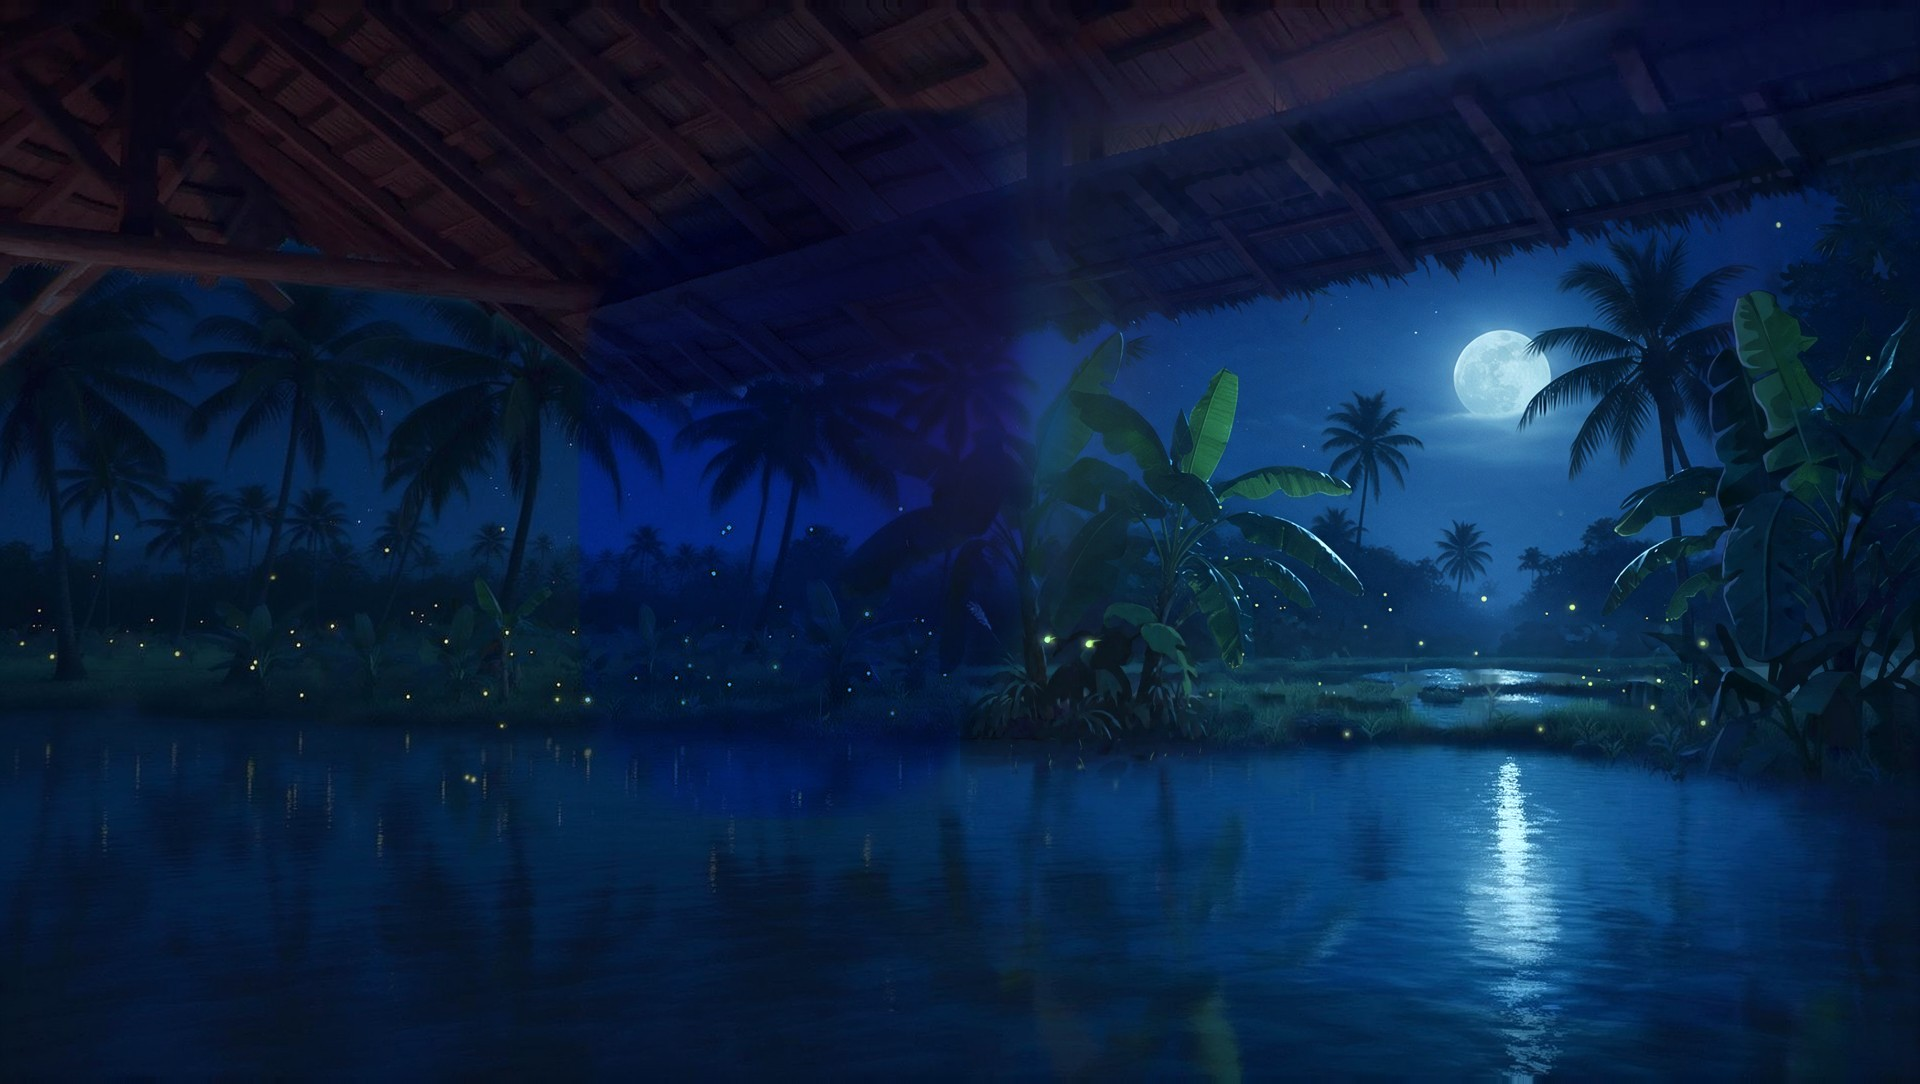
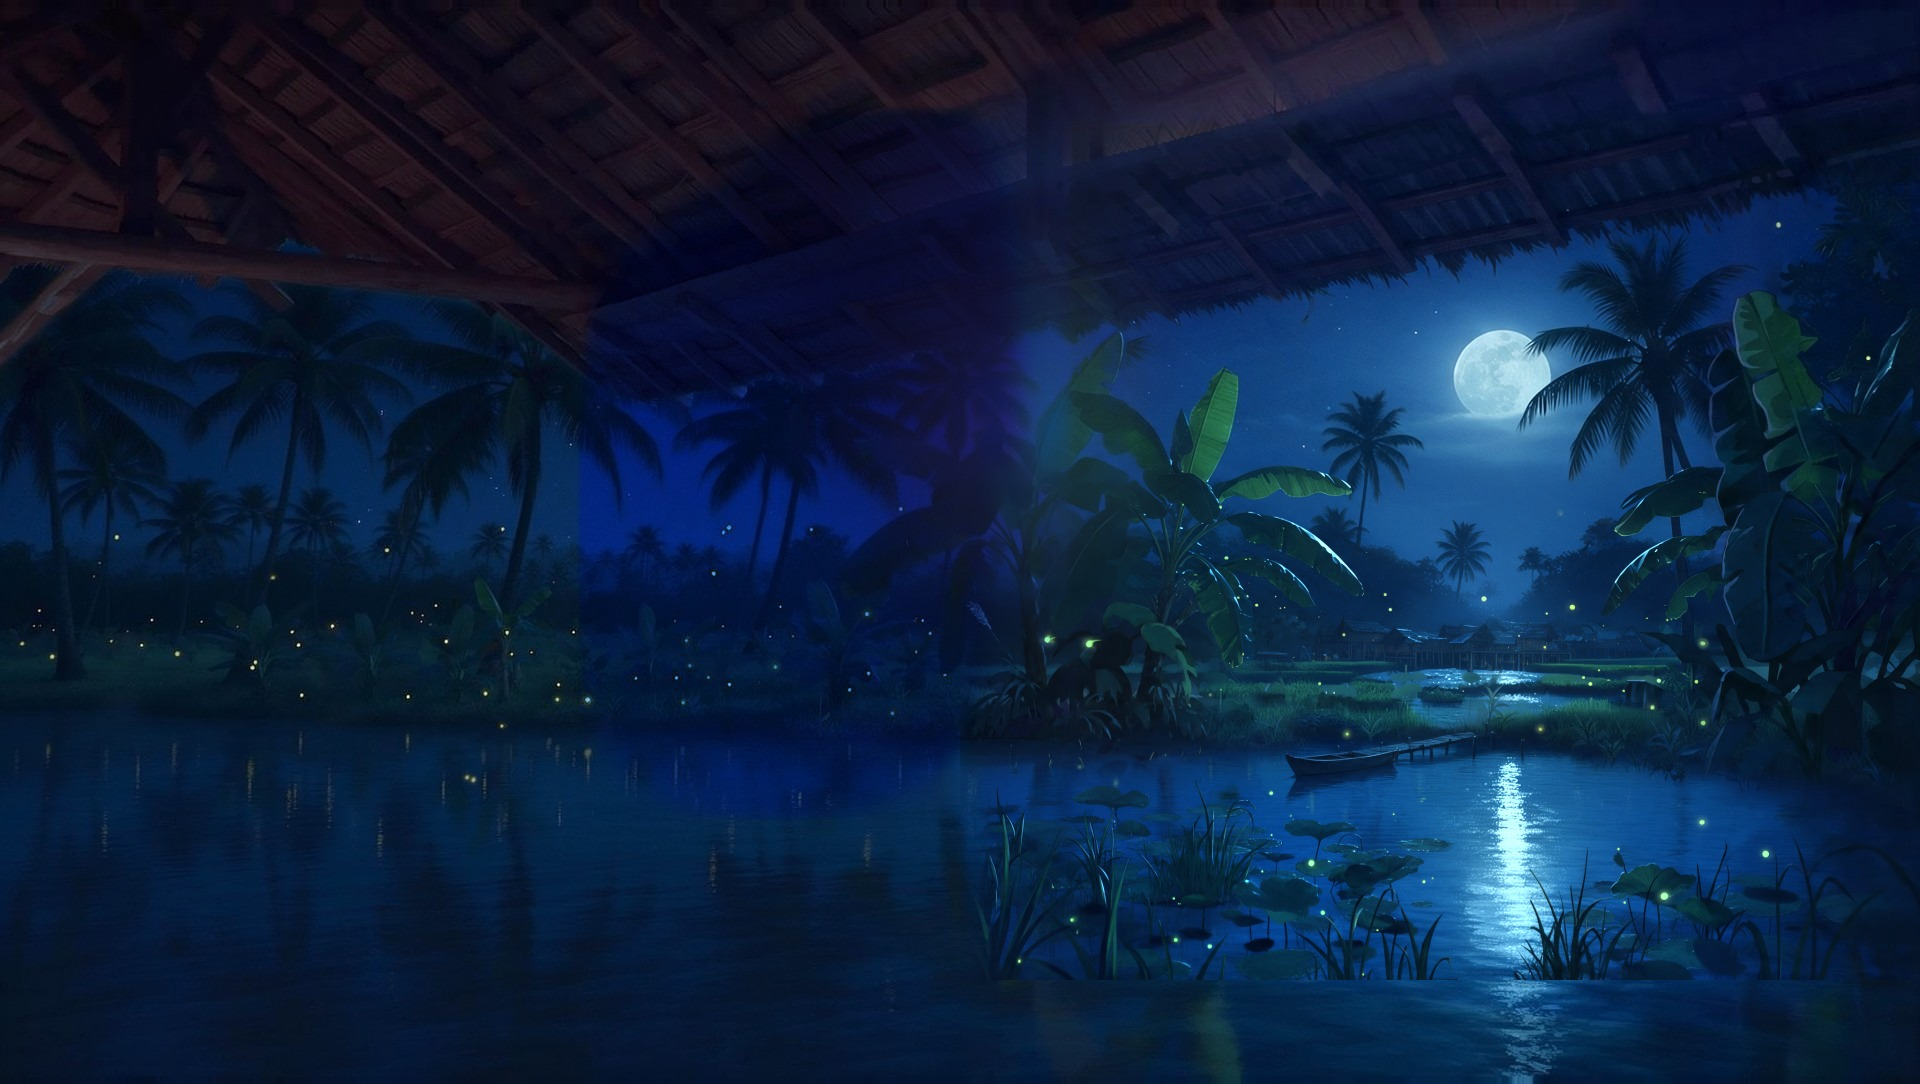
Sea: new lagoon view behind railing (Seedream 1.5k); rain masked out under thatched roof (mask.png B = no-rain, SAM)
Claude-Session: https://claude.ai/code/session_01WmePPEVtycNtDwciTC66yT

Changed region(s): [[0.5, 0.6697, 0.9375, 0.9133], [0.7188, 0.5784, 0.8438, 0.6393]]

diff --git a/public/index.html b/public/index.html
@@ -449,7 +449,7 @@ function framesFor(key){if(!LABFR||!LABFR[key])return null;if(FRM[key])return FR
     return Promise.all([...[...Array(j.n).keys()].flatMap(i=>[loadTex(dir+'/on_'+id(i)+'.jpg'),loadTex(dir+'/off_'+id(i)+'.jpg')]),
       ...[...Array(j.n-1).keys()].flatMap(i=>[loadTex(dir+'/fab_'+id(i)+'.png'),loadTex(dir+'/fba_'+id(i)+'.png')])])}).then(a=>{const m=2*F.n,A=a.slice(0,m),B=a.slice(m);
       F.on=A.filter((_,i)=>i%2==0);F.off=A.filter((_,i)=>i%2==1);F.fab=B.filter((_,i)=>i%2==0);F.fba=B.filter((_,i)=>i%2==1);F.ready=true}).catch(()=>{});return F}
-function texFor(key){if(!cache.has(key))cache.set(key,Promise.all(FILES.map(n=>loadTex(((LAB&&LAB[key])||key)+'/'+n+(/^(out_|mask|plate_|maps|cup_|shadow)/.test(n)?'?v=38':'')))).then(a=>Object.fromEntries(FILES.map((n,i)=>[n.split('.')[0],a[i]]))));return cache.get(key)}
+function texFor(key){if(!cache.has(key))cache.set(key,Promise.all(FILES.map(n=>loadTex(((LAB&&LAB[key])||key)+'/'+n+(/^(out_|mask|plate_|maps|cup_|shadow)/.test(n)?'?v=39':'')))).then(a=>Object.fromEntries(FILES.map((n,i)=>[n.split('.')[0],a[i]]))));return cache.get(key)}
 function evict(keep){for(const [k,p] of cache)if(!keep.includes(k)){cache.delete(k);p.then(T=>Object.values(T).forEach(t=>t.dispose()))}}
 const tvCan=document.createElement('canvas');tvCan.width=128;tvCan.height=96;const tvCtx=tvCan.getContext('2d');
 const tTV=new THREE.CanvasTexture(tvCan);tTV.minFilter=THREE.LinearFilter;tTV.generateMipmaps=false;
@@ -574,7 +574,7 @@ void main(){
       float rA=smoothstep(0.,.35,uRain),rB=smoothstep(.3,.75,uRain),rC=smoothstep(.62,1.,uRain);
       float rr=rainL(uvO,70.,9.,5.,1.)*.55*rA+rainL(uvO,38.,13.,6.,2.)*.9*rB+rainL(uvO,130.,6.5,4.,3.)*.35*rC+rainL(uvO,95.,15.,7.,4.)*.7*rC;
       o=mix(o,o*vec3(.78,.84,.95)+vec3(.012,.016,.026),uRain*.55);
-      o+=vec3(.42,.5,.66)*rr*(.45+.55*uRain)*.32*(.7+.3*uLamp);}
+      rr*=1.-texture2D(tMask,uvO).b;o+=vec3(.42,.5,.66)*rr*(.45+.55*uRain)*.32*(.7+.3*uLamp);}
     c=mix(c,o,op);
   }
   vec2 uvB=uv${FR?'+uShLamp*.8':''};vec3 m=texture2D(tMaps,uvB).rgb;float warm=m.g*m.g,cool=m.b*m.b;

diff --git a/public/lab.html b/public/lab.html
@@ -450,7 +450,7 @@ function framesFor(key){if(!LABFR||!LABFR[key])return null;if(FRM[key])return FR
     return Promise.all([...[...Array(j.n).keys()].flatMap(i=>[loadTex(dir+'/on_'+id(i)+'.jpg'),loadTex(dir+'/off_'+id(i)+'.jpg')]),
       ...[...Array(j.n-1).keys()].flatMap(i=>[loadTex(dir+'/fab_'+id(i)+'.png'),loadTex(dir+'/fba_'+id(i)+'.png')])])}).then(a=>{const m=2*F.n,A=a.slice(0,m),B=a.slice(m);
       F.on=A.filter((_,i)=>i%2==0);F.off=A.filter((_,i)=>i%2==1);F.fab=B.filter((_,i)=>i%2==0);F.fba=B.filter((_,i)=>i%2==1);F.ready=true}).catch(()=>{});return F}
-function texFor(key){if(!cache.has(key))cache.set(key,Promise.all(FILES.map(n=>loadTex(((LAB&&LAB[key])||key)+'/'+n+(/^(out_|mask|plate_|maps|cup_|shadow)/.test(n)?'?v=38':'')))).then(a=>Object.fromEntries(FILES.map((n,i)=>[n.split('.')[0],a[i]]))));return cache.get(key)}
+function texFor(key){if(!cache.has(key))cache.set(key,Promise.all(FILES.map(n=>loadTex(((LAB&&LAB[key])||key)+'/'+n+(/^(out_|mask|plate_|maps|cup_|shadow)/.test(n)?'?v=39':'')))).then(a=>Object.fromEntries(FILES.map((n,i)=>[n.split('.')[0],a[i]]))));return cache.get(key)}
 function evict(keep){for(const [k,p] of cache)if(!keep.includes(k)){cache.delete(k);p.then(T=>Object.values(T).forEach(t=>t.dispose()))}}
 const tvCan=document.createElement('canvas');tvCan.width=128;tvCan.height=96;const tvCtx=tvCan.getContext('2d');
 const tTV=new THREE.CanvasTexture(tvCan);tTV.minFilter=THREE.LinearFilter;tTV.generateMipmaps=false;
@@ -575,7 +575,7 @@ void main(){
       float rA=smoothstep(0.,.35,uRain),rB=smoothstep(.3,.75,uRain),rC=smoothstep(.62,1.,uRain);
       float rr=rainL(uvO,70.,9.,5.,1.)*.55*rA+rainL(uvO,38.,13.,6.,2.)*.9*rB+rainL(uvO,130.,6.5,4.,3.)*.35*rC+rainL(uvO,95.,15.,7.,4.)*.7*rC;
       o=mix(o,o*vec3(.78,.84,.95)+vec3(.012,.016,.026),uRain*.55);
-      o+=vec3(.42,.5,.66)*rr*(.45+.55*uRain)*.32*(.7+.3*uLamp);}
+      rr*=1.-texture2D(tMask,uvO).b;o+=vec3(.42,.5,.66)*rr*(.45+.55*uRain)*.32*(.7+.3*uLamp);}
     c=mix(c,o,op);
   }
   vec2 uvB=uv${FR?'+uShLamp*.8':''};vec3 m=texture2D(tMaps,uvB).rgb;float warm=m.g*m.g,cool=m.b*m.b;
